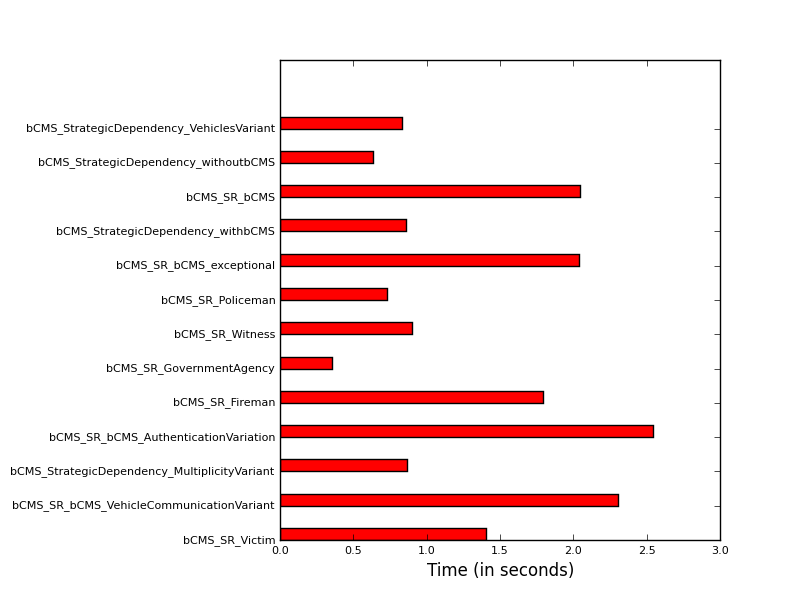
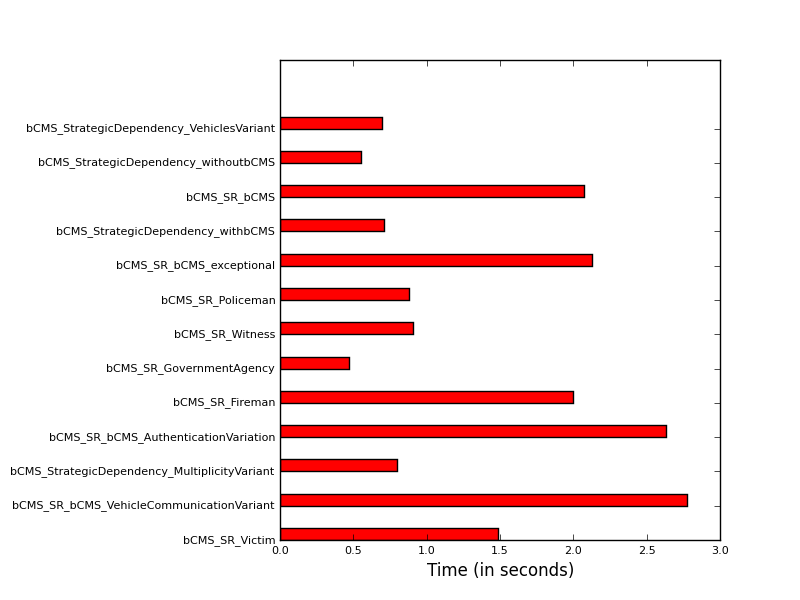
Implemented totally random runs #17

diff --git a/src/utilities/de.py b/src/utilities/de.py
@@ -13,7 +13,8 @@ def default():
     cr = 0.3,
     seed = 1,
     better = gt,
-    obj_funcs = [eval_softgoals, eval_goals, eval_coverage]
+    obj_funcs = [eval_softgoals, eval_goals, eval_coverage],
+    evaluation = Point.evaluate_random
   )
 
 def eval_roots(model):
@@ -26,7 +27,7 @@ def eval_softgoals(model):
   return model.evaluate_type(node_type="softgoal")
 
 def eval_coverage(model):
-  return len(model.get_nodes_covered())
+  return len(model._tree.get_nodes_covered())
 
 
 def dominates(obj1, obj2, better=lt):
@@ -56,11 +57,22 @@ class Point(O):
   def __eq__(self, other):
     return cmp(self.decisions, other.decisions) == 0
 
-  def evaluate(self, model, obj_funcs):
-    if not self.objectives:
-      model.reset_nodes(self.decisions)
-      self.objectives = [func(model) for func in obj_funcs]
-    return self.objectives
+  @staticmethod
+  def evaluate(point, model, obj_funcs):
+    if not point.objectives:
+      model.reset_nodes(point.decisions)
+      point.objectives = [func(model) for func in obj_funcs]
+    return point.objectives
+
+  @staticmethod
+  def evaluate_random(point, model, obj_funcs):
+    if point.objectives:
+      return point.objectives
+    model.reset_nodes(point.decisions)
+    model.evaluate_random()
+    point.objectives = [func(model) for func in obj_funcs]
+    return point.objectives
+
 
   @staticmethod
   def trim(val):
@@ -92,21 +104,22 @@ class DE(O):
     Runner function to run differential evolution
     :return: Optimal population
     """
-    print(self.settings)
+    settings = self.settings
+    print(settings)
     stat = Statistics()
     start = time.time()
-    if 2**len(self.model.roots) < self.settings.candidates:
+    if 2**len(self.model.roots) < settings.candidates:
       raise RuntimeError(500, "Cannot generate %s candidates with %s leaves"
-                %(self.settings.candidates, len(self.model.roots)))
-    population = self.generate(self.settings.candidates)
+                %(settings.candidates, len(self.model.roots)))
+    population = self.generate(settings.candidates)
     stat.insert(population)
     for _ in range(self.settings.gens):
       clones = population[:]
       for point in population:
-        original_obj = point.evaluate(self.model, self.settings.obj_funcs)
+        original_obj = settings.evaluation(point, self.model, settings.obj_funcs)
         mutant = self.mutate(point, population)
-        mutated_obj = mutant.evaluate(self.model, self.settings.obj_funcs)
-        if dominates(mutated_obj, original_obj, better=self.settings.better) and (not mutant in clones):
+        mutated_obj = settings.evaluation(mutant, self.model, settings.obj_funcs)
+        if dominates(mutated_obj, original_obj, better=settings.better) and (not mutant in clones):
           clones.remove(point)
           clones.append(mutant)
       population = clones

diff --git a/src/runner.py b/src/runner.py
@@ -18,6 +18,7 @@ def process_OOD(file_name):
   objs = stat.spit_objectives()
   headers = [obj.__name__.split("_")[-1] for obj in de.settings.obj_funcs]
   cluster_input = [headers] + objs
+  print("")
   g = Genic(k=3)
   g.run(cluster_input)
   g.report()
@@ -49,24 +50,24 @@ def test_visio_tree():
   #process_Visio('../GMRepo/CMA12/bCMS_SR_CommunicationCompromiser.ood')
 
 if __name__ == "__main__":
-  # directory = '../GMRepo/CMA12'
-  # times = {}
-  # for file_name in os.listdir(directory):
-  #   if file_name.endswith(".ood"):
-  #     file_name = directory + "/" + file_name
-  #     name = os.path.basename(file_name).split(".")[0]
-  #     try:
-  #       times[name] = process_OOD(file_name)
-  #     except RuntimeError as e:
-  #       if e[0] == 500:
-  #         print(file_name)
-  #         print(e[1])
-  #         print("```")
-  #       else:
-  #         raise Exception()
-  #     print("")
-  # x=times
-  # bar_plot(x, 'img/runtimes.png')
-  test_ome_tree()
+  directory = '../GMRepo/CMA12'
+  times = {}
+  for file_name in os.listdir(directory):
+    if file_name.endswith(".ood"):
+      file_name = directory + "/" + file_name
+      name = os.path.basename(file_name).split(".")[0]
+      try:
+        times[name] = process_OOD(file_name)
+      except RuntimeError as e:
+        if e[0] == 500:
+          print(file_name)
+          print(e[1])
+          print("```")
+        else:
+          raise Exception()
+      print("")
+  x=times
+  bar_plot(x, 'img/runtimes.png')
+  #test_ome_tree()
   #test_visio_tree()
 

diff --git a/src/models/model.py b/src/models/model.py
@@ -19,13 +19,6 @@ class Model(O):
     self.recursions = 0
     self.chain = set()
 
-
-  def get_nodes(self):
-    return self._tree.nodes
-
-  def get_nodes_covered(self):
-    return [node for node in self.get_nodes() if node.value]
-
   def generate(self):
     point_map = {}
     for node in self.roots:
@@ -57,17 +50,32 @@ class Model(O):
         count += 1
     return count
 
-  def  scores(self, n=1000, seed=None):
+  def evaluate_random(self):
+    def check_status():
+      for node in self._tree.nodes:
+        if node.type in ["goal", "softgoal"] and (not node.value):
+          return False
+      return True
+    #while not check_status():
+    for _ in range(len(self._tree.nodes)/2):
+      self.chain = set()
+      self.eval(choice(self._tree.nodes))
+
+  def eval_node(self, node):
+    self.chain=set()
+    self.eval(node)
+
+  def scores(self, n=1000, seed_val=None):
     """
     Evaluate the graph n times and
     return the average value
     :param n: Number of evals
-    :param seed: Random seed to be set
+    :param seed_val: Random seed to be set
     :return: The average score
     """
     from utilities.sk import rdivDemo
-    if not seed is None:
-      random.seed(seed)
+    if not seed_val is None:
+      seed(seed_val)
 
     final = []
     for _ in xrange(n):

diff --git a/src/parser/parser_utils.py b/src/parser/parser_utils.py
@@ -1,6 +1,6 @@
 from __future__ import print_function, division
 __author__ = 'george'
-import sys, os
+import os
 from utilities.lib import *
 
 
@@ -148,8 +148,8 @@ class Parser(O):
     :return:
     """
     if not self.nodes:
-      self.nodes = set()
-    self.nodes.add(node)
+      self.nodes = list()
+    self.nodes.append(node)
 
   def add_edge(self, edge):
     """
@@ -158,8 +158,8 @@ class Parser(O):
     :return:
     """
     if not self.edges:
-      self.edges = set()
-    self.edges.add(edge)
+      self.edges = list()
+    self.edges.append(edge)
 
   def get_edge(self, edge_id):
     for edge in self.edges:
@@ -196,6 +196,9 @@ class Parser(O):
       if not node.to_edges:
         nodes.append(node)
     return nodes
+
+  def get_nodes_covered(self):
+    return [node for node in self.get_nodes() if node.value]
 
   def get_nodes(self, node_type=None):
     """
